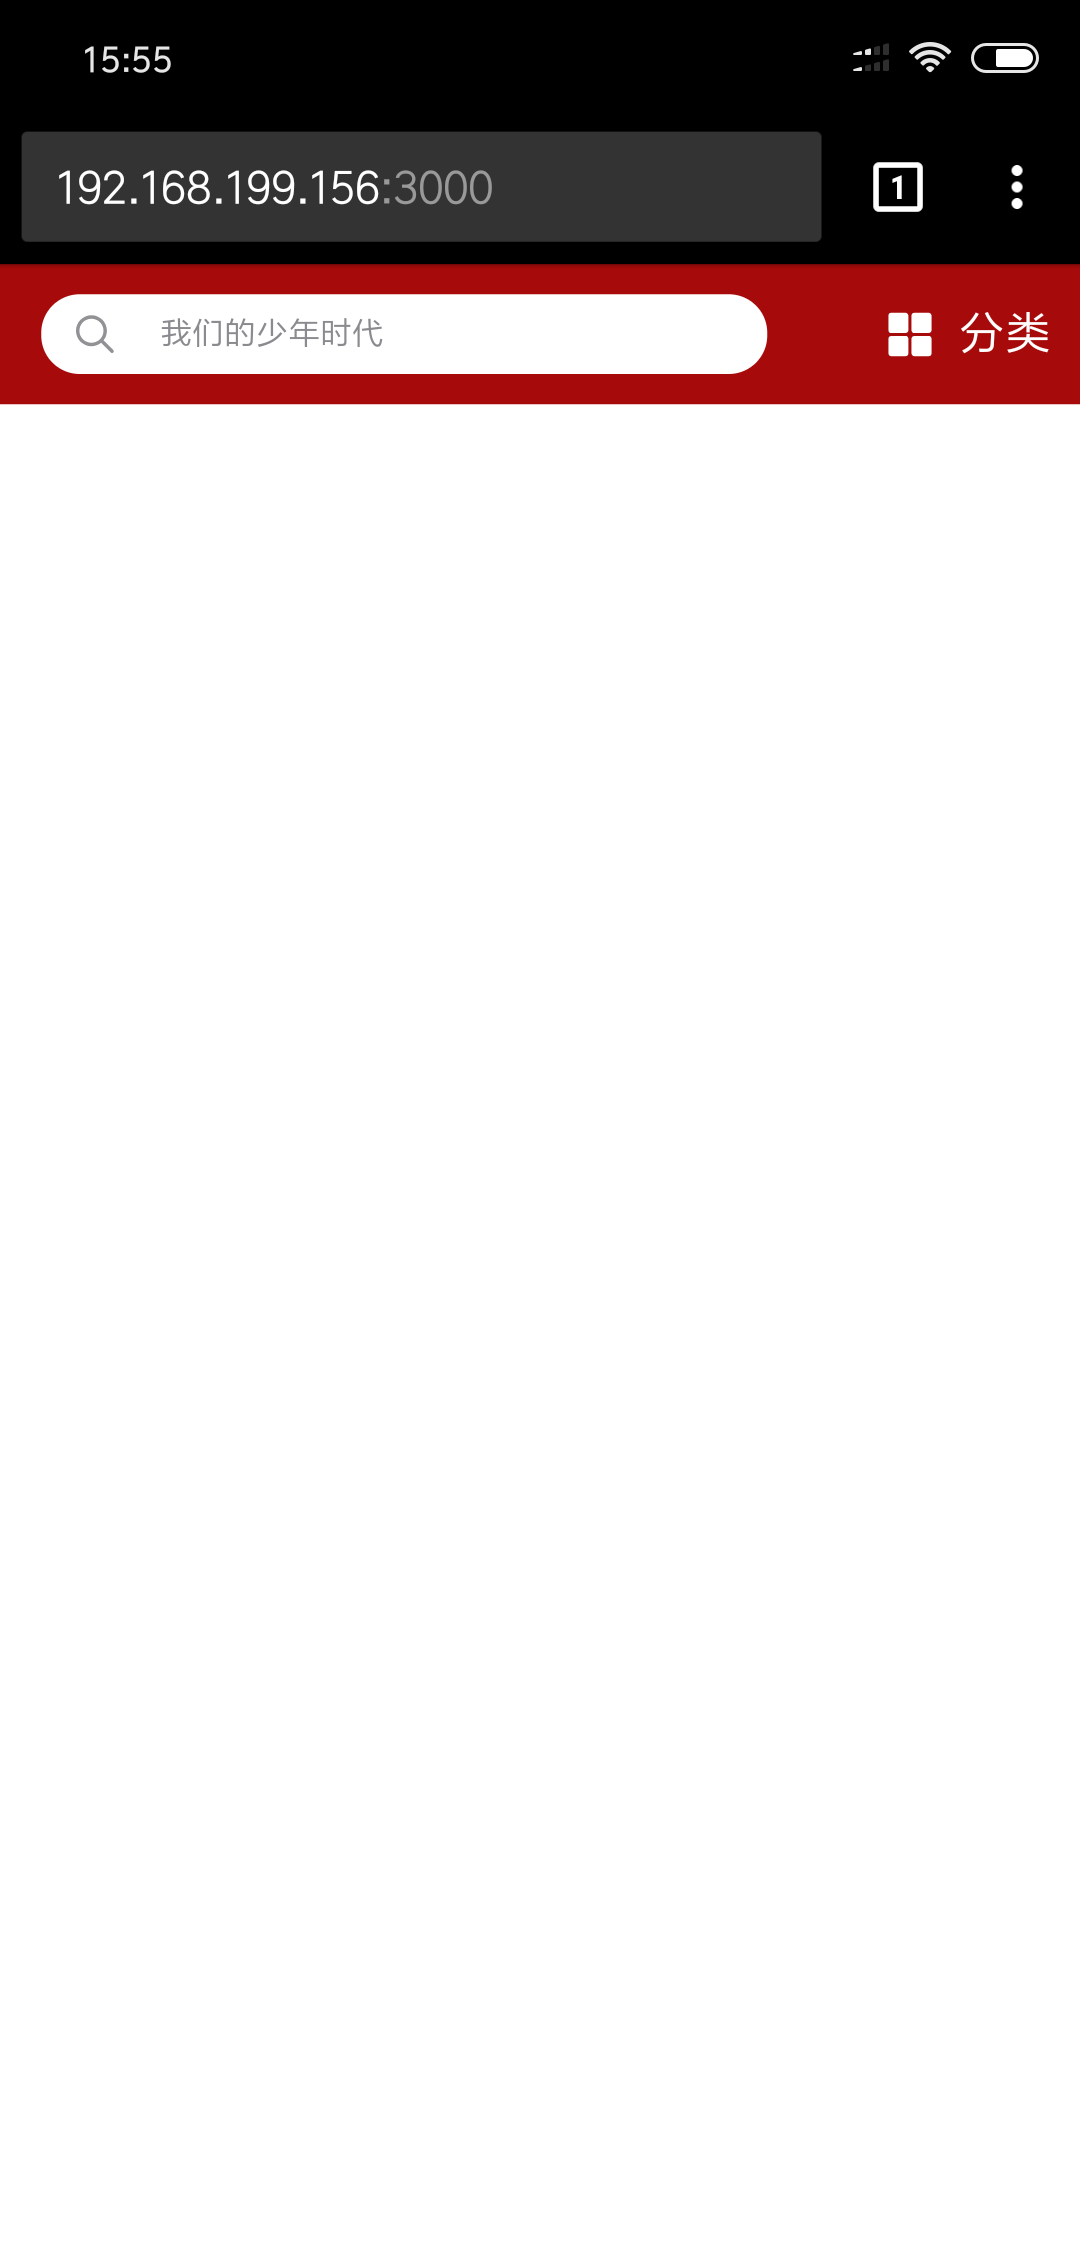
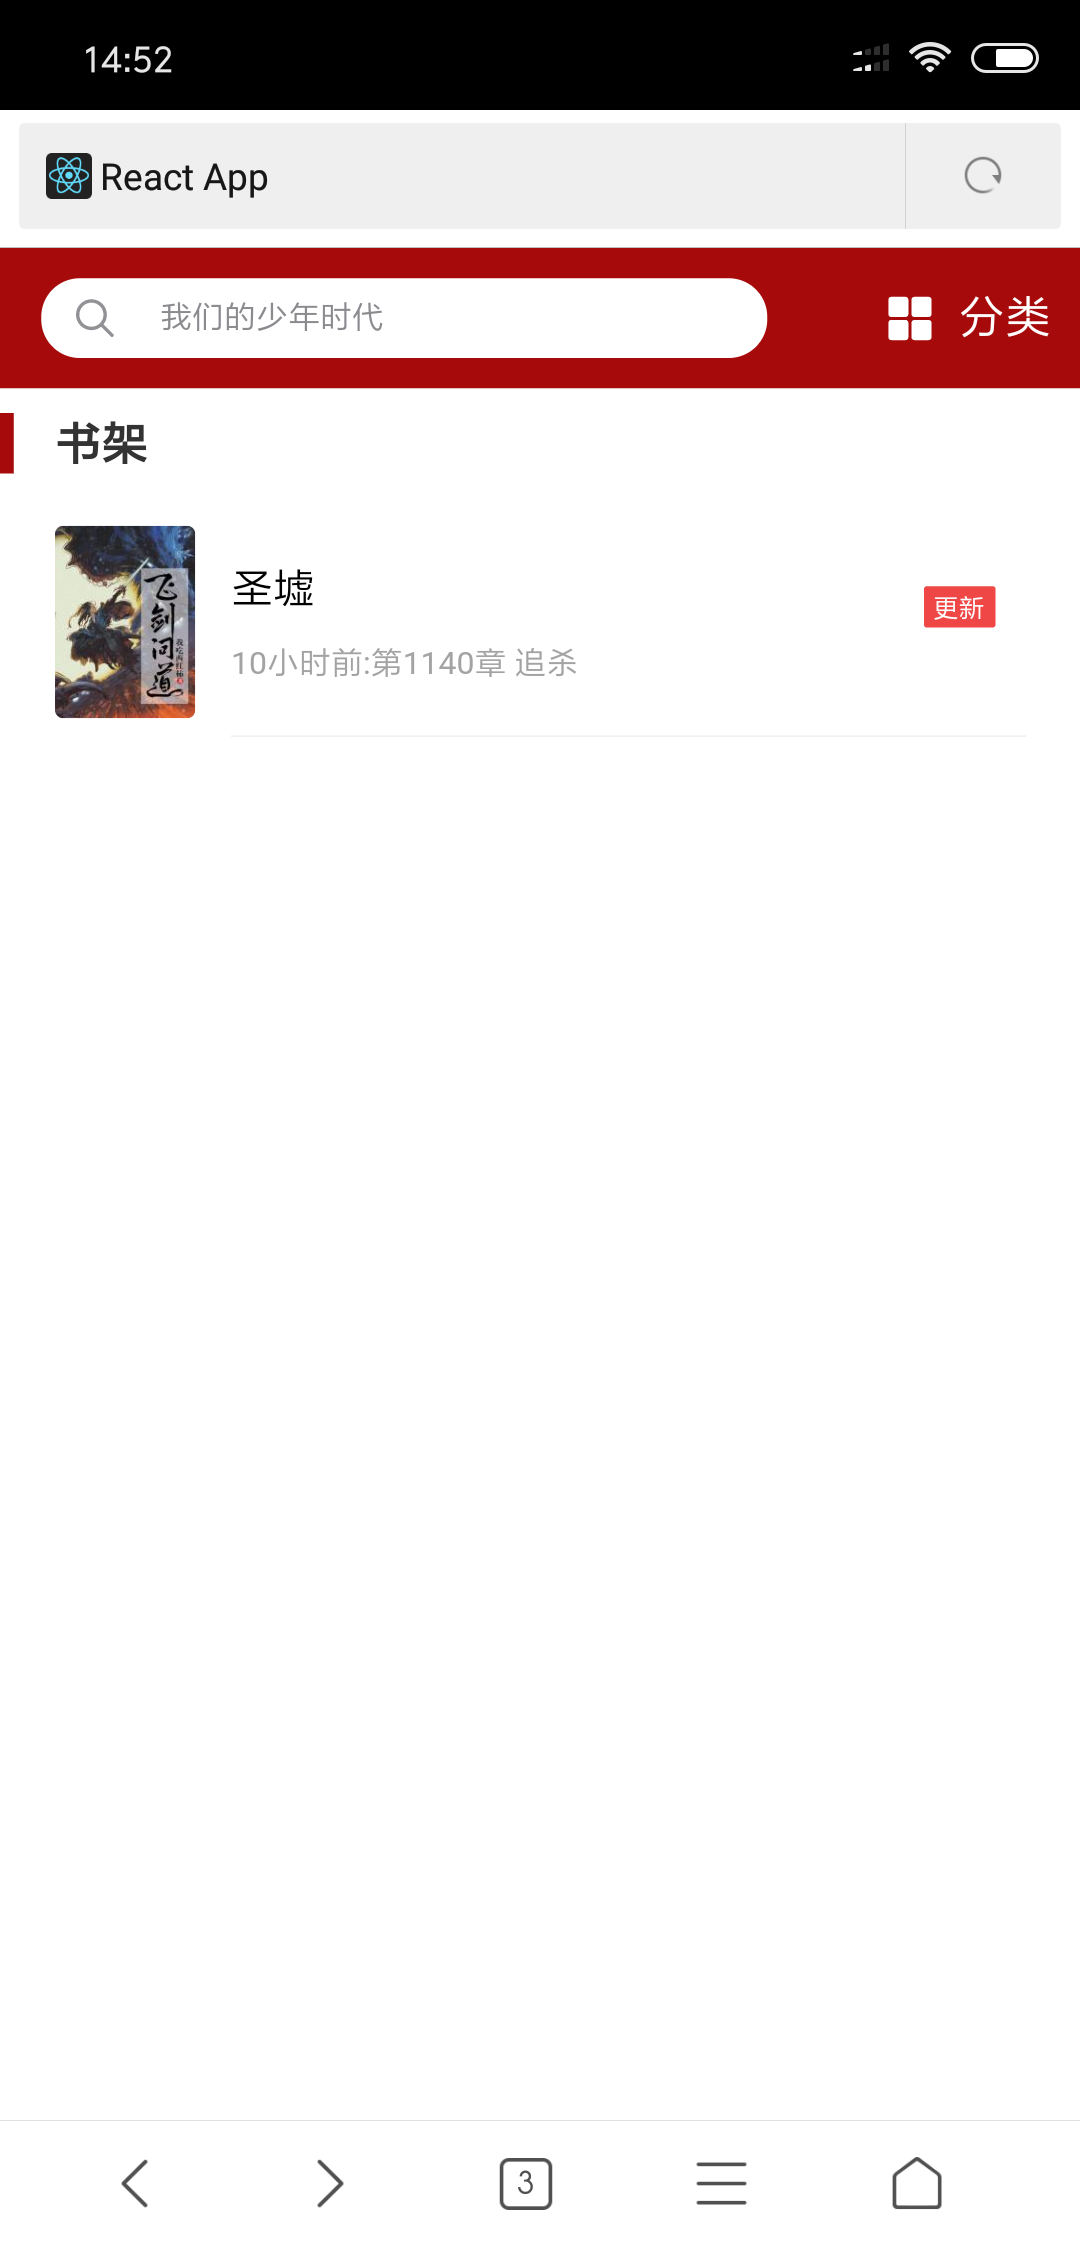
主页添加书架模块

diff --git a/src/pages/home.css b/src/pages/home.css
@@ -46,3 +46,77 @@
   color: #fff;
   padding-left: .26rem;
 }
+
+.home-page > .module-title {
+  position: relative;
+  margin-top: .26rem;
+  padding-left: .55rem;
+  font-size: .46rem;
+  color: #333;
+  font-weight: bold;
+}
+
+.home-page > .module-title::before {
+  content: '';
+  display: block;
+  position: absolute;
+  top: 0;
+  left: 0;
+  height: 100%;
+  width: 5px;
+  background-color: #a70a0a;
+}
+
+.home-page > .native-novel-list > .native-novel-item {
+  display: flex;
+  height: 2.62rem;
+  padding-left: .55rem;
+  padding-right: .55rem;
+  position: relative;
+}
+
+.home-page > .native-novel-list > .native-novel-item > .cover {
+  width: 1.4rem;
+  min-width: 1.4rem;
+  height: 1.92rem;
+  margin-top: .52rem;
+  border-radius: 3px;
+}
+
+.home-page > .native-novel-list > .native-novel-item > .novel-info {
+  display: flex;
+  flex-direction: column;
+  justify-content: center;
+  position: relative;
+  flex: 1;
+  height: 100%;
+  padding-top: .52rem;
+  padding-bottom: .18rem;
+  margin-left: .36rem;
+  color: #a3a3a3;
+}
+
+.home-page > .native-novel-list > .native-novel-item > .novel-info::after {
+  background-color: #ebebf0;
+}
+
+.home-page > .native-novel-list > .native-novel-item > .novel-info > .title {
+  padding-bottom: .28rem;
+  color: #000;
+  font-size: .42rem;
+}
+
+.home-page > .native-novel-list > .native-novel-item > .novel-update {
+  display: flex;
+  justify-content: center;
+  align-items: center;
+  width: .72rem;
+  height: .4rem;
+  position: absolute;
+  background-color: #ee4745;
+  color: #fff;
+  font-size: .26rem;
+  border-radius: 1px;
+  top: 1.12rem;
+  right: .86rem;
+}

diff --git a/src/pages/home.js b/src/pages/home.js
@@ -30,6 +30,19 @@ class _HomePage extends React.Component {
         <SearchBar
           handleSearchInputClick={() => this.toSearchPage()}
         />
+
+        <p className="module-title">书架</p>
+
+        <ul className="native-novel-list">
+          <li className="native-novel-item">
+            <img className="cover" src="http://statics.zhuishushenqi.com/agent/http%3A%2F%2Fimg.1391.com%2Fapi%2Fv1%2Fbookcenter%2Fcover%2F1%2F2126166%2F2126166_c1002339e5664d7bb1a536e2608fa599.jpg%2F" alt=""/>
+            <section className="novel-info bottom-border">
+              <p className="title">圣墟</p>
+              <span className="tip">10小时前:第1140章 追杀</span>
+            </section>
+            <span className="novel-update">更新</span>
+          </li>
+        </ul>
       </div>
     );
   }

diff --git a/src/pages/search.css b/src/pages/search.css
@@ -61,6 +61,7 @@
 
 .search-page > .novel-list > .novel-item > .cover {
   width: 2.08rem;
+  min-width: 2.08rem;
   height: 2.92rem;
 }
 
